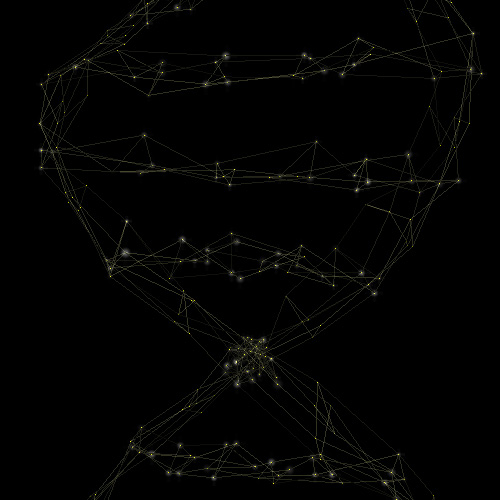
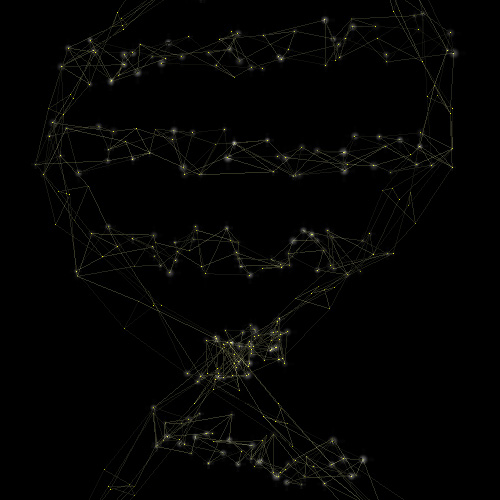
improved mesh and added mousewheel zoom.

Changed region(s): [[0.06, 0.0, 0.96, 1.0], [0.3, 0.6, 0.33, 0.63]]

diff --git a/20160609/sketch.js b/20160609/sketch.js
@@ -54,17 +54,14 @@ function setup() {
     var z2 = Math.sin(a+Math.PI) * radius;
 
     // create NoisyLineCluster connecting positions on helix
-    var noisyLineCluster = new NoisyLineCluster(group, new THREE.Vector3(x,y,z), new THREE.Vector3(x2,y,z2), 5, 5, 50);
+    var noisyLineCluster = new NoisyLineCluster(group, new THREE.Vector3(x,y,z), new THREE.Vector3(x2,y,z2), 5, 10, 50);
 
     // create vertical clusters connecting to last horizontal cluster on helix
     if(i > 0){
       var last = horizontalClusters[horizontalClusters.length-1];
-      // TODO: connect based on startGeo/endGeo
-      var leftCluster = new ConnectingLineCluster(group, last.startGeo, noisyLineCluster.startGeo, 5, 2, 30);
-      var rightCluster = new ConnectingLineCluster(group, last.endGeo, noisyLineCluster.endGeo, 5, 2, 30);
-      // connect current horizontal cluster to previous
-      //var leftCluster = new NoisyLineCluster(group, last.startPos, noisyLineCluster.startPos, 5, 2, 30);
-      //var rightCluster = new NoisyLineCluster(group, last.endPos, noisyLineCluster.endPos, 5, 2, 30);
+      // connect based on startGeo/endGeo
+      var leftCluster = new ConnectingLineCluster(group, last.startGeo, noisyLineCluster.startGeo, 2, 30);
+      var rightCluster = new ConnectingLineCluster(group, last.endGeo, noisyLineCluster.endGeo, 2, 30);
       connectingClusters.push(leftCluster, rightCluster);
     }
     horizontalClusters.push(noisyLineCluster);
@@ -79,6 +76,7 @@ function setup() {
   renderer.domElement.addEventListener('mousemove', mouseMoved, false);
 	renderer.domElement.addEventListener('mousedown', mousePressed, false);
 	renderer.domElement.addEventListener('mouseup', mouseReleased, false);
+  renderer.domElement.addEventListener('wheel', mouseWheel, false);
   window.addEventListener('resize', onWindowResize, false);
 }
 
@@ -99,6 +97,10 @@ function mouseMoved(event){
 
 function mouseReleased(event){
   mouseIsPressed = false;
+}
+
+function mouseWheel(event){
+  camera.position.z += event.deltaY * 0.1;
 }
 
 function onWindowResize() {
@@ -205,7 +207,7 @@ function NoisyLineCluster(parent, startPos, endPos, count, segments, noise){
 
 
 
-function ConnectingLineCluster(parent, startGeo, endGeo, count, segments, noise){
+function ConnectingLineCluster(parent, startGeo, endGeo, segments, noise){
   this.startGeo = startGeo;
   this.endGeo = endGeo;
 
